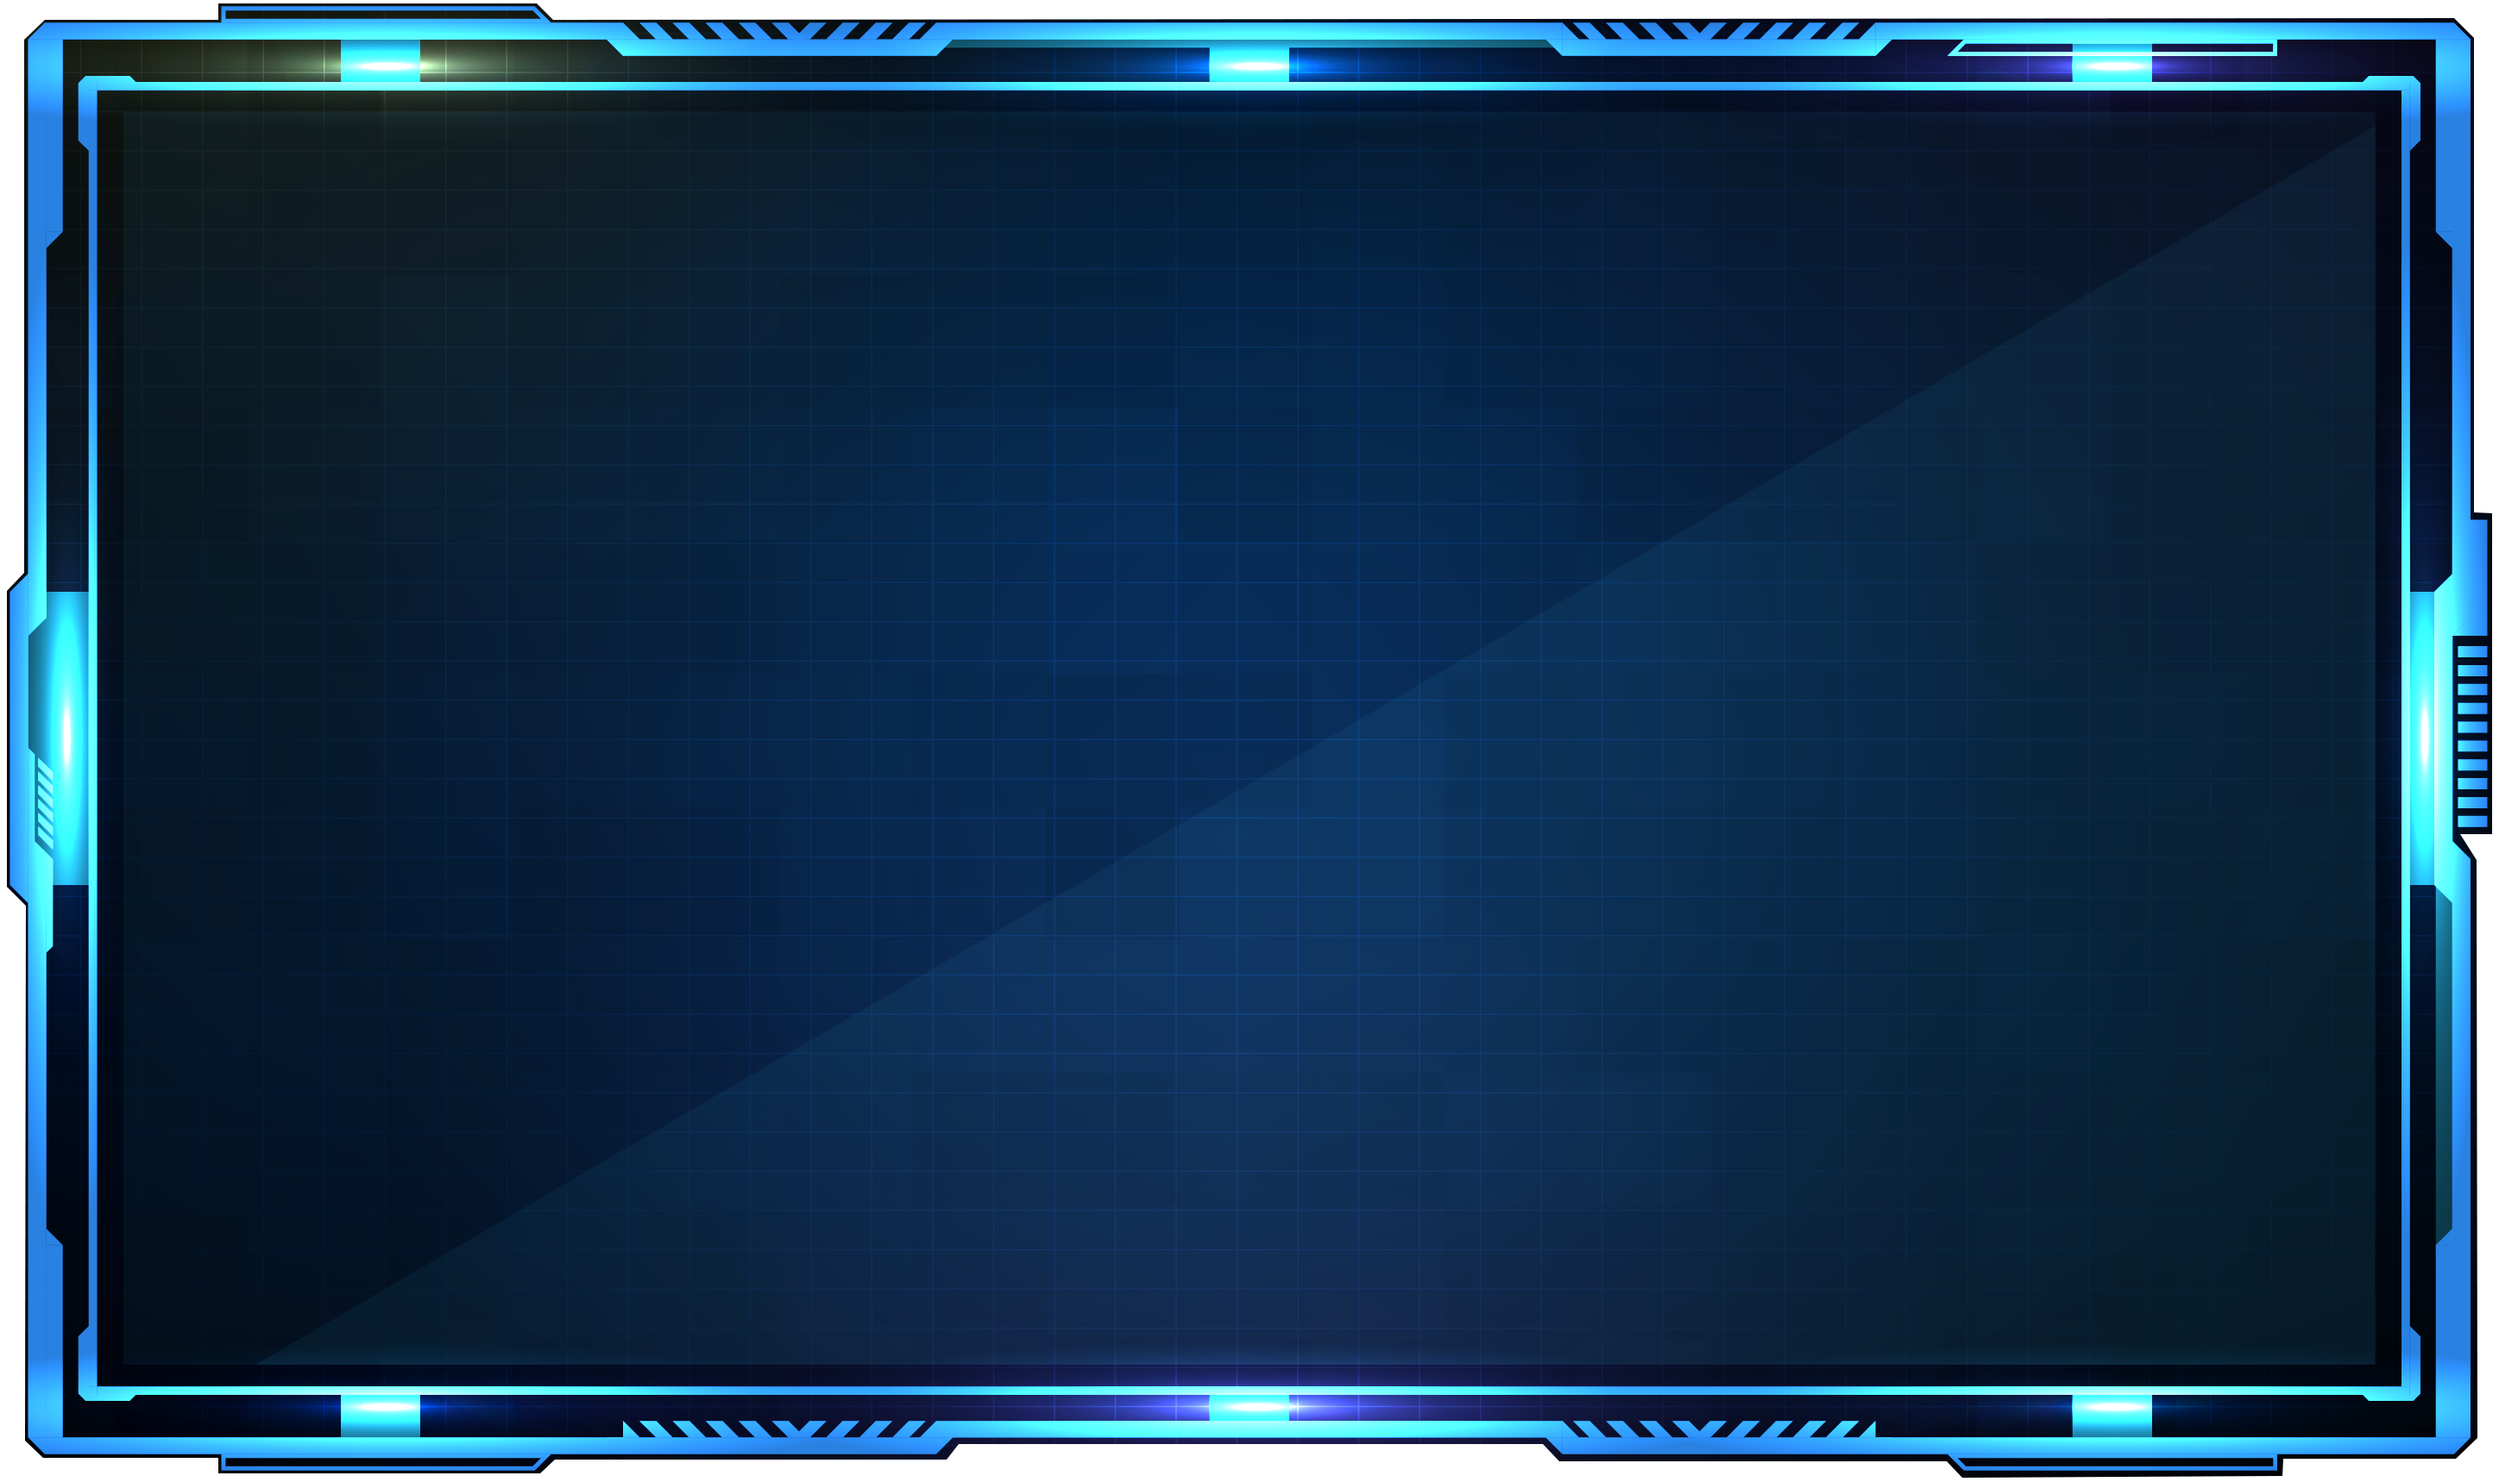
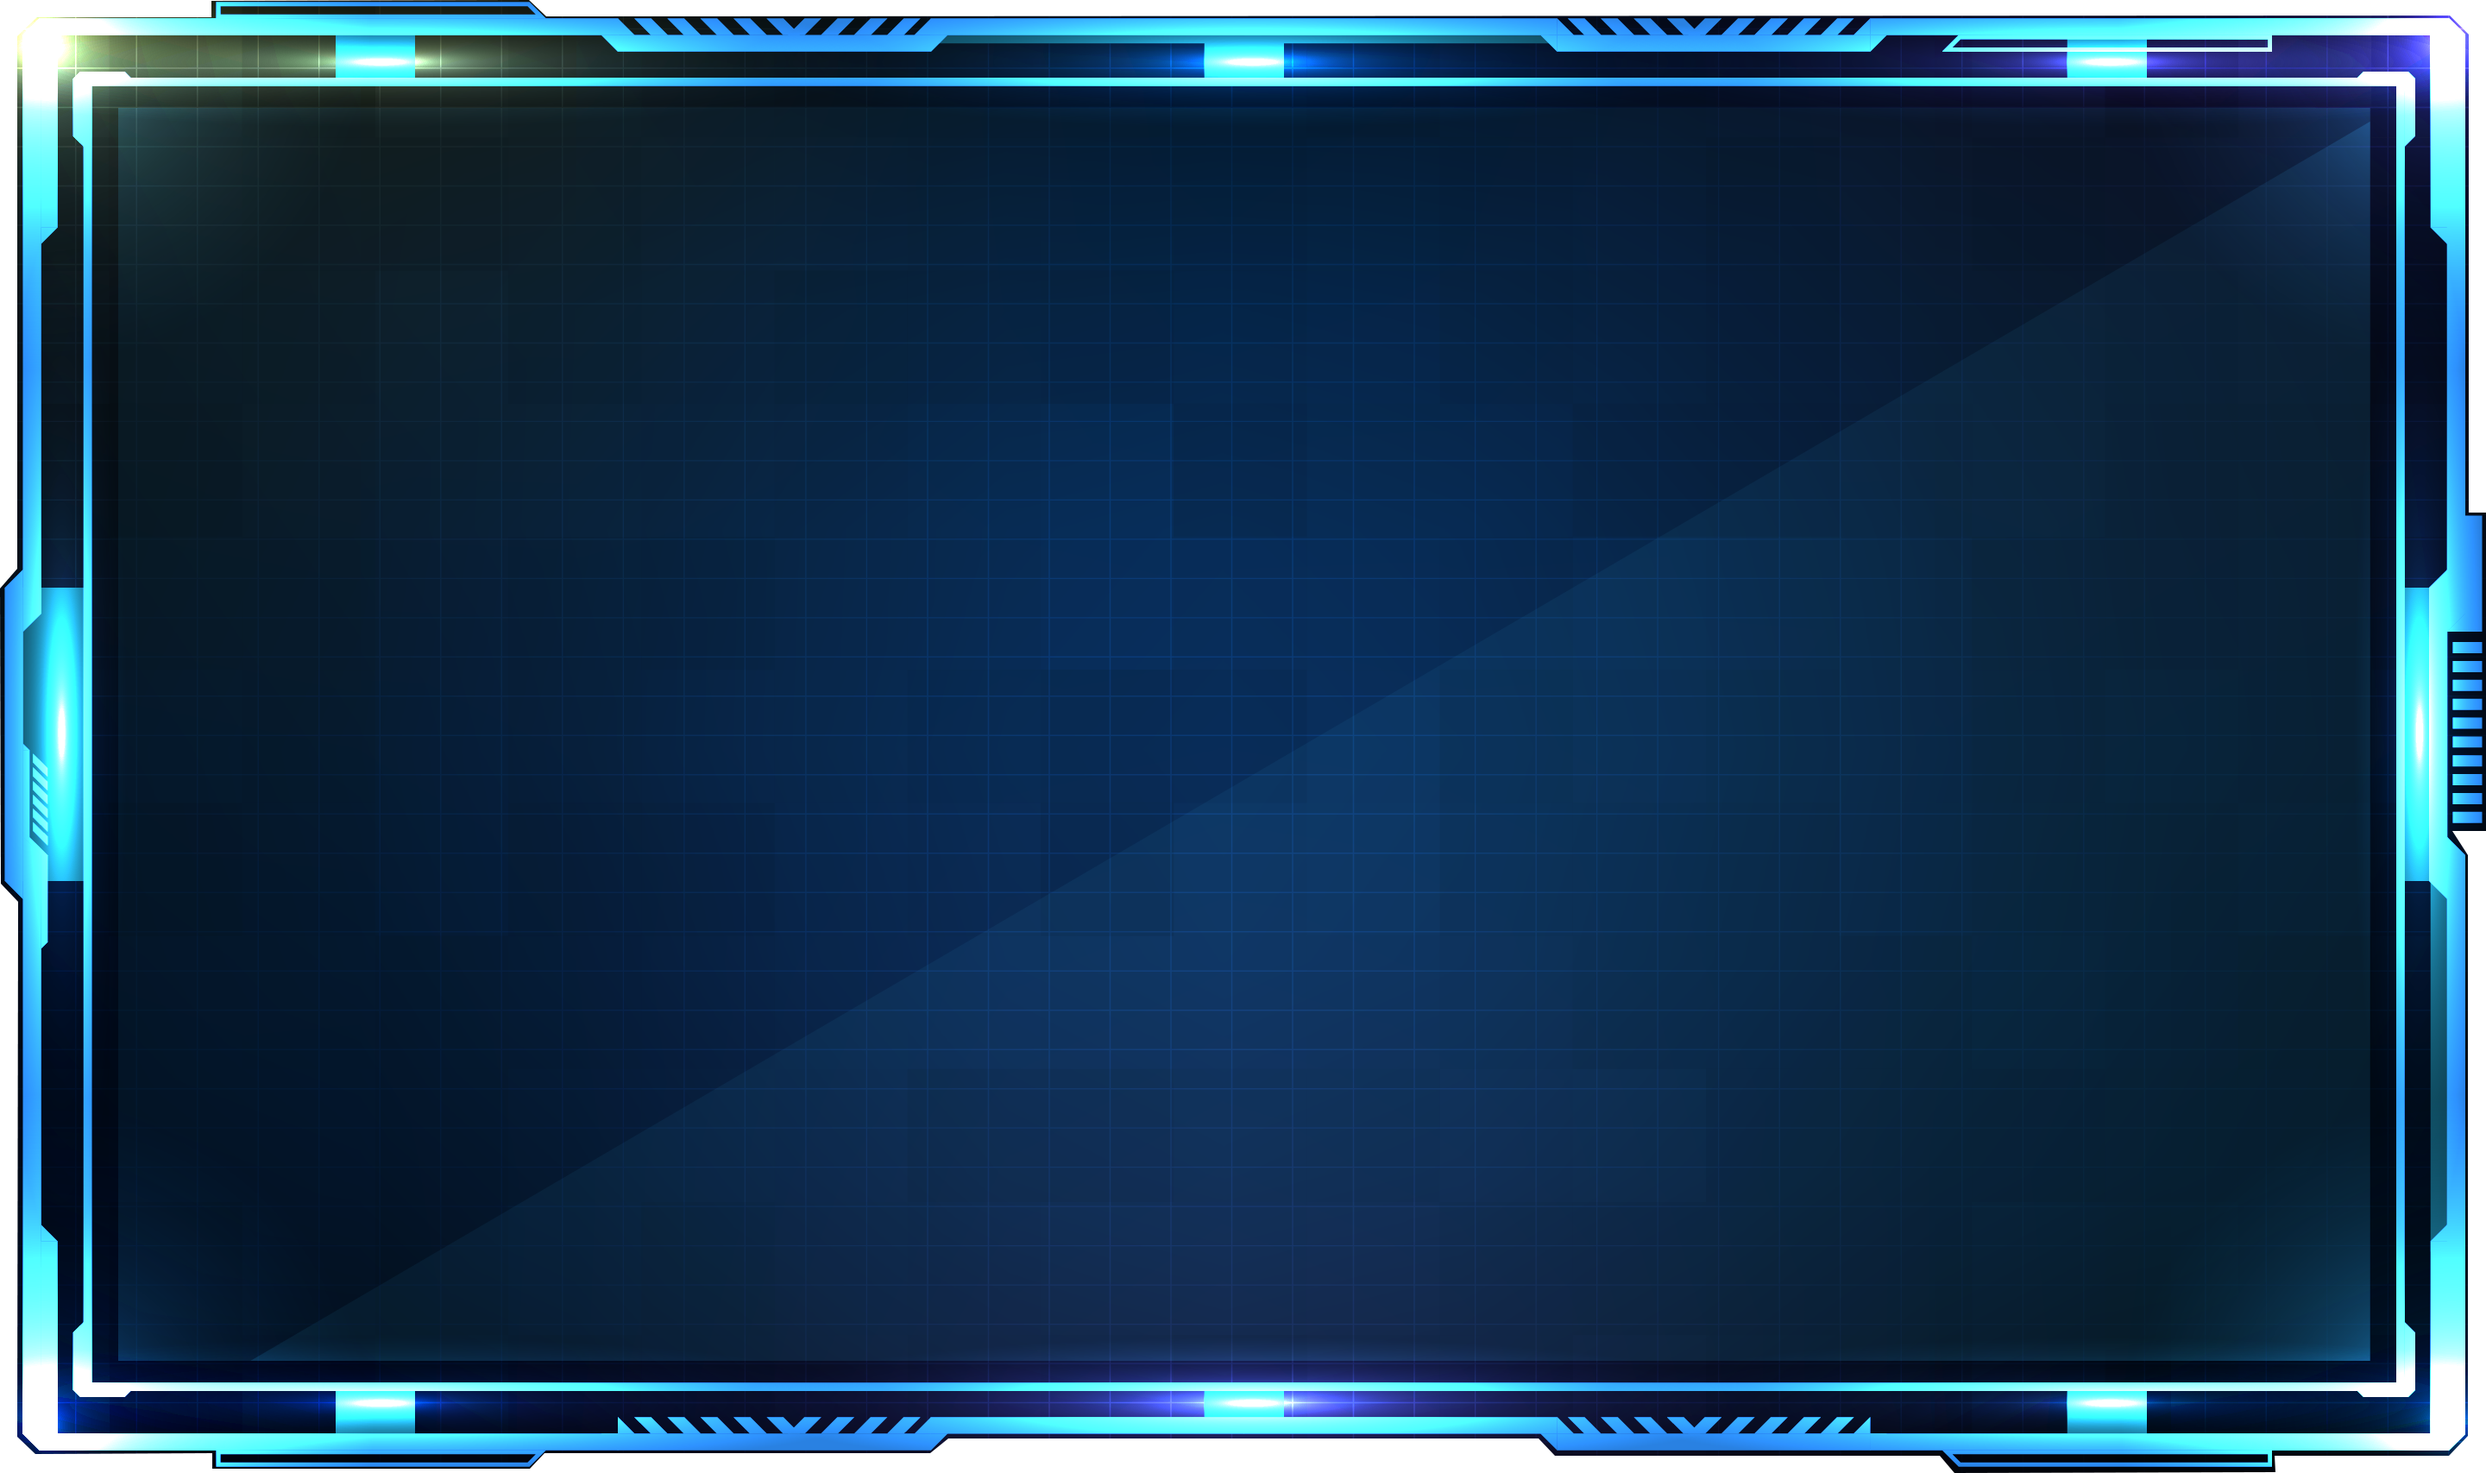
redesigned requirement

Changed region(s): [[0.0, 0.0, 1.0, 1.0]]

diff --git a/src/components/about/TheBenefits.vue b/src/components/about/TheBenefits.vue
@@ -10,27 +10,27 @@
         <font-awesome-icon
           title="Database"
           :icon="['fa', 'database']"
-          class="text-6xl mx-4 sm:mx-auto text-blue-300 shadow-light"
+          class="text-6xl mx-4 sm:mx-auto text-blue-300 hover:text-blue-400"
         ></font-awesome-icon>
         <font-awesome-icon
           title="Javascript"
           :icon="['fab', 'js']"
-          class="text-6xl mx-4 sm:mx-auto text-blue-300 shadow-light"
+          class="text-6xl mx-4 sm:mx-auto text-blue-300 hover:text-blue-400"
         ></font-awesome-icon>
         <font-awesome-icon
           title="Laravel"
           :icon="['fab', 'laravel']"
-          class="text-6xl mx-4 sm:mx-auto text-blue-300 shadow-light"
+          class="text-6xl mx-4 sm:mx-auto text-blue-300 hover:text-blue-400"
         ></font-awesome-icon>
         <font-awesome-icon
           title="Angular"
           :icon="['fab', 'angular']"
-          class="text-6xl mx-4 sm:mx-auto text-blue-300 shadow-light"
+          class="text-6xl mx-4 sm:mx-auto text-blue-300 hover:text-blue-400"
         ></font-awesome-icon>
         <font-awesome-icon
           title="Android"
           :icon="['fab', 'android']"
-          class="text-6xl mx-4 sm:mx-auto text-blue-300 shadow-light"
+          class="text-6xl mx-4 sm:mx-auto text-blue-300 hover:text-blue-400"
         ></font-awesome-icon>
       </div>
     </section>
@@ -41,22 +41,22 @@
         <font-awesome-icon
           title="Time Management"
           :icon="['fa', 'clock']"
-          class="text-6xl mx-4 sm:mx-auto text-blue-300 shadow-light"
+          class="text-6xl mx-4 sm:mx-auto text-blue-300 hover:text-blue-400"
         ></font-awesome-icon>
         <font-awesome-icon
           title="Networking"
           :icon="['fa', 'users']"
-          class="text-6xl mx-4 sm:mx-auto text-blue-300 shadow-light"
+          class="text-6xl mx-4 sm:mx-auto text-blue-300 hover:text-blue-400"
         ></font-awesome-icon>
         <font-awesome-icon
           title="Public Speaking"
           :icon="['fa', 'bullhorn']"
-          class="text-6xl mx-4 sm:mx-auto text-blue-300 shadow-light"
+          class="text-6xl mx-4 sm:mx-auto text-blue-300 hover:text-blue-400"
         ></font-awesome-icon>
         <font-awesome-icon
           title="Teamwork"
           :icon="['fa', 'user-friends']"
-          class="text-6xl mx-4 sm:mx-auto text-blue-300 shadow-light"
+          class="text-6xl mx-4 sm:mx-auto text-blue-300 hover:text-blue-400"
         ></font-awesome-icon>
       </div>
     </section>

diff --git a/src/components/about/TheRequirements.vue b/src/components/about/TheRequirements.vue
@@ -4,12 +4,12 @@
       Requirements
     </h1>
 
-    <section class="grid grid-rows-2 md:grid-cols-2 gap-8 lg:gap-0">
+    <section class="grid grid-rows-2 md:grid-cols-2 gap-8 lg:gap-4 my-0">
       <div v-for="(requirement, idx) in requirements" :key="idx">
         <font-awesome-icon
           v-if="requirement.icon"
           :icon="[requirement.family, requirement.icon]"
-          class="mx-auto text-6xl flex text-center h-16 md:h-32 mb-6 text-blue-300"
+          class="mx-auto text-6xl flex text-center h-16 md:h-20 mb-6 text-blue-300"
         ></font-awesome-icon>
         <img
           v-else
@@ -17,7 +17,7 @@
           :src="requirement.img"
           class="mx-auto h-16 md:h-20 mb-6"
         />
-        <p class="text-center">{{ requirement.desc }}</p>
+        <p class="text-center text-base">{{ requirement.desc }}</p>
       </div>
     </section>
   </div>
@@ -45,8 +45,8 @@ export default defineComponent({
         {
           img: "/images/requirement-grade-b.webp",
           desc: "Min B in Algorithm and Programming or Intro to Programming",
-          family: "fab",
-          icon: "bootstrap"
+          family: null,
+          icon: null
         },
         {
           img: "/images/requirement-faculty.webp",

diff --git a/src/views/About.vue b/src/views/About.vue
@@ -59,7 +59,7 @@ export default defineComponent({
 
 <style scoped>
 .container {
-  background-image: url("/images/border2.webp");
+  background-image: url("/images/border.webp");
   background-size: 100% 100%;
   background-repeat: no-repeat;
 }
